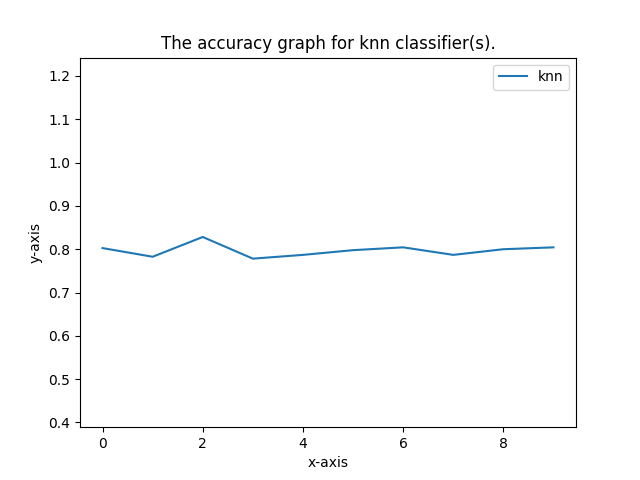
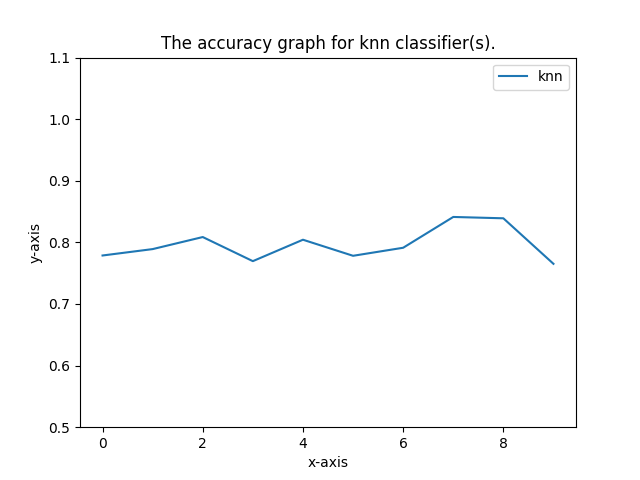
result and README updated

diff --git a/classifier/visualize.py b/classifier/visualize.py
@@ -12,7 +12,7 @@ def draw_chart(x, y_list, title=None, x_label='x-axis', y_label='y-axis', y_labe
         plt.title(title)
     plt.xlabel(x_label)
     plt.ylabel(y_label)
-    plt.ylim(bottom=min(y) / 2, top=max(y) * 1.5)
+    plt.ylim(bottom=0.5, top=1.1)
     plt.legend()
     plt.show()
 

diff --git a/README.md b/README.md
@@ -62,5 +62,5 @@ kNN | SVM | Naive-Bayes | Random-Forest | Decision-Tree
 
 #### Authors
 
-1. Nastaran Kiani (`no github address`)
+1. Nastaran Kiani ([@Nastarankiani](https://github.com/Nastarankiani))
 2. Ahmadreza Zibaei ([@ahmdrz](https://github.com/ahmdrz))
